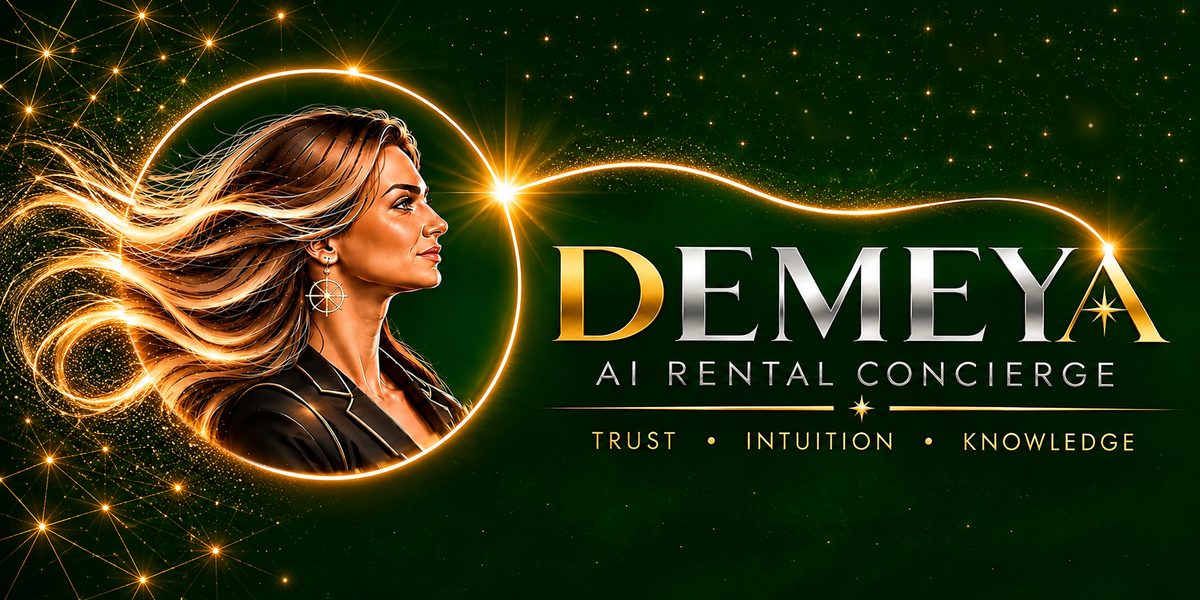
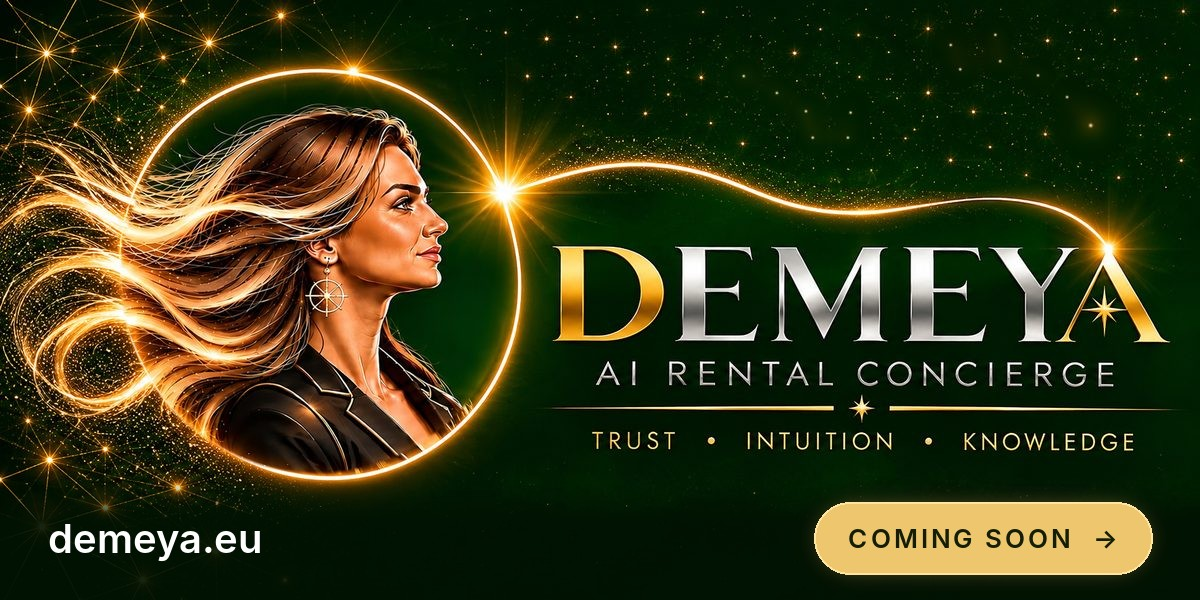
Animacja Wkrotce i podglad WhatsApp EN

Changed region(s): [[0.6783, 0.81, 0.9867, 0.99], [0.0, 0.81, 0.2158, 1.0], [0.2158, 0.96, 0.2467, 0.99]]

diff --git a/index.html b/index.html
@@ -6,8 +6,8 @@
 <title>Demeya — AI Rental Concierge</title>
 <meta name="description" content="Demeya — l'assistente AI che risponde ai clienti degli autonoleggi 24 ore su 24, nella loro lingua.">
 <meta property="og:title" content="Demeya — AI Rental Concierge">
-<meta property="og:description" content="Ogni cliente, ogni lingua, a ogni ora.">
-<meta property="og:image" content="https://demeya.eu/og.jpg">
+<meta property="og:description" content="Every customer, every language, at any hour.">
+<meta property="og:image" content="https://demeya.eu/og.jpg?v=3">
 <meta property="og:url" content="https://demeya.eu/">
 <meta property="og:type" content="website">
 <meta name="twitter:card" content="summary_large_image">
@@ -71,6 +71,12 @@ html[lang=it] [data-l=it],html[lang=en] [data-l=en],html[lang=pl] [data-l=pl]{di
  .netl{display:block;position:absolute;right:88%;top:-55.79%;width:55%;height:auto;pointer-events:none;z-index:0}
  .net{-webkit-mask-image:linear-gradient(90deg,transparent,#000 16%);mask-image:linear-gradient(90deg,transparent,#000 16%)}
 }
+
+.badge{overflow:hidden;animation:pulse 2.8s ease-in-out infinite;font-weight:600}
+.badge::after{content:"";position:absolute;top:0;bottom:0;left:-60%;width:45%;background:linear-gradient(100deg,transparent,rgba(255,240,195,.85),transparent);transform:skewX(-20deg);animation:shine 2.8s ease-in-out infinite;pointer-events:none}
+@keyframes shine{0%,35%{left:-60%}75%,100%{left:130%}}
+@keyframes pulse{0%,100%{box-shadow:0 0 0 0 rgba(240,195,100,0);border-color:var(--line)}50%{box-shadow:0 0 18px 2px rgba(240,195,100,.45);border-color:rgba(240,200,110,.9)}}
+@media (prefers-reduced-motion:reduce){.badge,.badge::after{animation:none}}
 </style>
 </head>
 <body>
